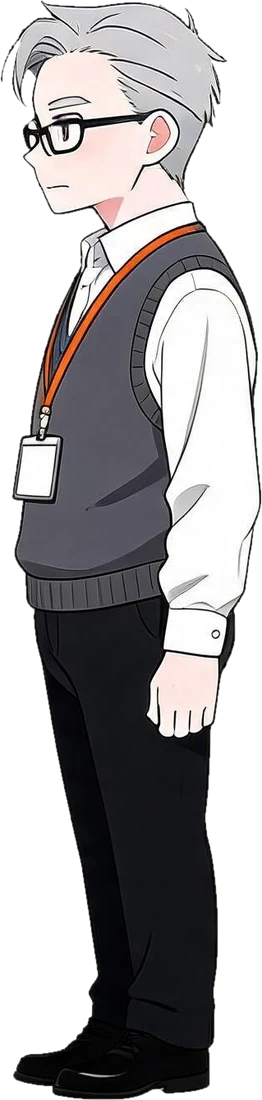
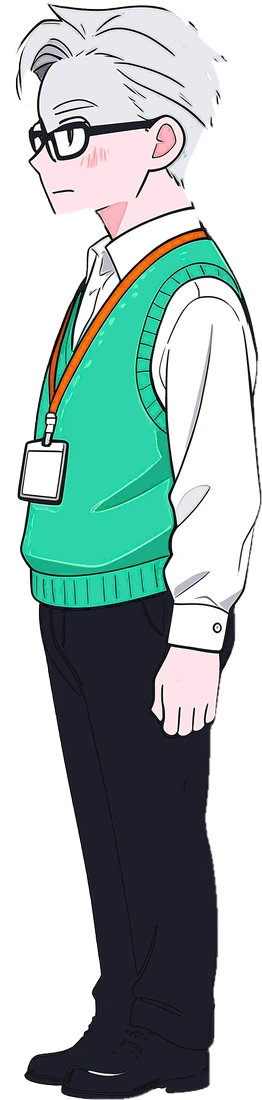
공동책임 동료 그림 4장(coworker-34·face·front·side)을 아동 컬러판(민트 니트 조끼·흰 셔츠)으로 다시 칠함

diff --git a/_tests/test_recolor_coworker.py b/_tests/test_recolor_coworker.py
@@ -1,0 +1,177 @@
+"""Item: recolour gongdong coworker-34 / -face / -front / -side to the kids palette.
+
+Done when
+- all four images keep the size and mode of the bb74c20 original,
+- they are more colourful than the original (body shots by >= 2 points),
+- body shots wear a mint knit vest (#2ED3A8 / shadow #1BAE89) per palette.json
+  "coworker", while the white shirt stays white (not repainted mint/lemon),
+- cutouts stay transparent, work PNGs / candidates never land in the repo.
+Run: python _tests/test_recolor_coworker.py
+"""
+import colorsys
+import os
+import subprocess
+import sys
+import unittest
+
+sys.dont_write_bytecode = True
+sys.path.insert(0, os.path.dirname(os.path.abspath(__file__)))
+import imgcheck  # noqa: E402
+
+NAMES = ["coworker-34", "coworker-face", "coworker-front", "coworker-side"]
+BODY = ["coworker-34", "coworker-front", "coworker-side"]  # face crop: no vest
+DEST = "assets/images/gongdong"
+MIN_GAIN = 0.02         # body shots: base already scores 16-18% (bluish greys)
+MIN_FACE_GAIN = 0.003   # face crop: must still be measurably more colourful
+MIN_MINT = 0.03         # vest is a clear area on every body shot (base: 0%)
+WHITE_KEEP = 0.5        # white shirt: keep >= half of the base white share
+MIN_WHITE = 0.05        # ... and never drop below 5% of the figure
+
+
+def rel(n):
+    return f"{DEST}/{n}.webp"
+
+
+def share(img, pred, max_side=256):
+    """Share of opaque pixels (alpha >= 128) for which pred(r, g, b) is true."""
+    img = img.convert("RGBA")
+    if max(img.size) > max_side:
+        img = img.copy()
+        img.thumbnail((max_side, max_side), imgcheck.Image.NEAREST)
+    total = hits = 0
+    for r, g, b, a in img.getdata():
+        if a < 128:
+            continue
+        total += 1
+        if pred(r, g, b):
+            hits += 1
+    return hits / total if total else 0.0
+
+
+def is_mint(r, g, b):
+    # mint #2ED3A8 / shadow #1BAE89 sit at hue ~164; leaf #59C27A (~138),
+    # sky #3FA9F5 (~205) and pastel_mint #DCF6EC (s 0.1) are excluded.
+    h, s, v = colorsys.rgb_to_hsv(r / 255, g / 255, b / 255)
+    return 150 <= h * 360 <= 180 and s >= 0.5 and v >= 0.5
+
+
+def is_white(r, g, b):
+    # shirt white #FFFFFF and the cream/skin near it; no tint allowed
+    return min(r, g, b) >= 235 and max(r, g, b) - min(r, g, b) <= 14
+
+
+def mint_share(img):
+    return share(img, is_mint)
+
+
+def white_share(img):
+    return share(img, is_white)
+
+
+class TestRecolorCoworker(unittest.TestCase):
+    def test_files_exist(self):
+        missing = [n for n in NAMES if not os.path.isfile(imgcheck.repo_path(rel(n)))]
+        self.assertEqual(missing, [])
+
+    def test_changed_from_base(self):
+        same = [n for n in NAMES
+                if imgcheck.original_bytes(rel(n))
+                == open(imgcheck.repo_path(rel(n)), "rb").read()]
+        self.assertEqual(same, [], "still the bb74c20 (mono) file")
+
+    def test_size_and_mode_match_base(self):
+        bad = []
+        for n in NAMES:
+            ok, msg = imgcheck.same_size_mode(rel(n))
+            if not ok:
+                bad.append(msg)
+        self.assertEqual(bad, [])
+
+    def test_body_more_colourful_than_base(self):
+        bad = []
+        for n in BODY:
+            old = imgcheck.colourfulness(imgcheck.original(rel(n)))
+            new = imgcheck.colourfulness(imgcheck.current(rel(n)))
+            if new < old + MIN_GAIN:
+                bad.append(f"{n}: {old:.3f} -> {new:.3f}")
+        self.assertEqual(bad, [], f"need > base + {MIN_GAIN}")
+
+    def test_face_more_colourful_than_base(self):
+        n = "coworker-face"
+        old = imgcheck.colourfulness(imgcheck.original(rel(n)))
+        new = imgcheck.colourfulness(imgcheck.current(rel(n)))
+        self.assertGreaterEqual(new, old + MIN_FACE_GAIN, f"{n}: {old:.3f} -> {new:.3f}")
+
+    def test_mint_vest_present(self):
+        low = []
+        for n in BODY:
+            v = mint_share(imgcheck.current(rel(n)))
+            if v < MIN_MINT:
+                low.append(f"{n}: {v:.3f}")
+        self.assertEqual(low, [], "mint knit vest missing (grey vest left?)")
+
+    def test_white_shirt_kept(self):
+        bad = []
+        for n in BODY:
+            old = white_share(imgcheck.original(rel(n)))
+            new = white_share(imgcheck.current(rel(n)))
+            if new < max(MIN_WHITE, old * WHITE_KEEP):
+                bad.append(f"{n}: {old:.3f} -> {new:.3f}")
+        self.assertEqual(bad, [], "white shirt was repainted")
+
+    def test_transparent_background_kept(self):
+        # Cutouts: top corners must stay transparent (no cream box left by recolour).
+        bad = []
+        for n in NAMES:
+            img = imgcheck.current(rel(n)).convert("RGBA")
+            w, h = img.size
+            for xy in [(0, 0), (w - 1, 0)]:
+                if img.getpixel(xy)[3] > 16:
+                    bad.append(f"{n} {xy}")
+        self.assertEqual(bad, [], "background not transparent at top corners")
+
+    def test_no_work_files_in_repo(self):
+        out = subprocess.run(
+            ["git", "status", "--porcelain", "--untracked-files=all", "--ignored"],
+            cwd=imgcheck.REPO, capture_output=True, text=True, check=True).stdout
+        stray = [line for line in out.splitlines()
+                 if "coworker" in line.lower()
+                 and line.lower().rstrip('"').endswith((".png", ".webp", ".jpg", ".jpeg"))
+                 and not line[3:].strip().strip('"') in [rel(n) for n in NAMES]]
+        self.assertEqual(stray, [], "work PNG / candidate left inside the repo")
+
+
+class TestHelpers(unittest.TestCase):
+    def solid(self, rgb, a=255):
+        return imgcheck.Image.new("RGBA", (4, 4), rgb + (a,))
+
+    def test_mint_bounds(self):
+        s = self.solid
+        self.assertEqual(mint_share(s((0x2E, 0xD3, 0xA8))), 1.0)
+        self.assertEqual(mint_share(s((0x1B, 0xAE, 0x89))), 1.0)
+        for other in [(0x59, 0xC2, 0x7A), (0x3F, 0xA9, 0xF5), (0xDC, 0xF6, 0xEC),
+                      (0xB6, 0xE7, 0xD4), (255, 255, 255), (120, 130, 128),
+                      (0xF5, 0x7C, 0x00), (0xFF, 0xD2, 0x3F)]:
+            self.assertEqual(mint_share(s(other)), 0.0, other)
+        self.assertEqual(mint_share(s((0x2E, 0xD3, 0xA8), a=0)), 0.0)
+
+    def test_white_bounds(self):
+        s = self.solid
+        self.assertEqual(white_share(s((255, 255, 255))), 1.0)
+        self.assertEqual(white_share(s((235, 240, 249))), 1.0)  # edge: spread 14
+        self.assertEqual(white_share(s((235, 240, 250))), 0.0)  # spread 15
+        self.assertEqual(white_share(s((234, 240, 240))), 0.0)  # too dark
+        for other in [(0xDC, 0xF6, 0xEC), (0xFF, 0xF3, 0xC4), (0x2E, 0xD3, 0xA8)]:
+            self.assertEqual(white_share(s(other)), 0.0, other)
+
+    def test_base_has_no_mint_but_has_white(self):
+        # The mono originals must fail the vest check and pass the shirt check,
+        # else the tests prove nothing.
+        for n in BODY:
+            base = imgcheck.original(rel(n))
+            self.assertLess(mint_share(base), MIN_MINT, n)
+            self.assertGreaterEqual(white_share(base), MIN_WHITE, n)
+
+
+if __name__ == "__main__":
+    unittest.main(verbosity=1)
